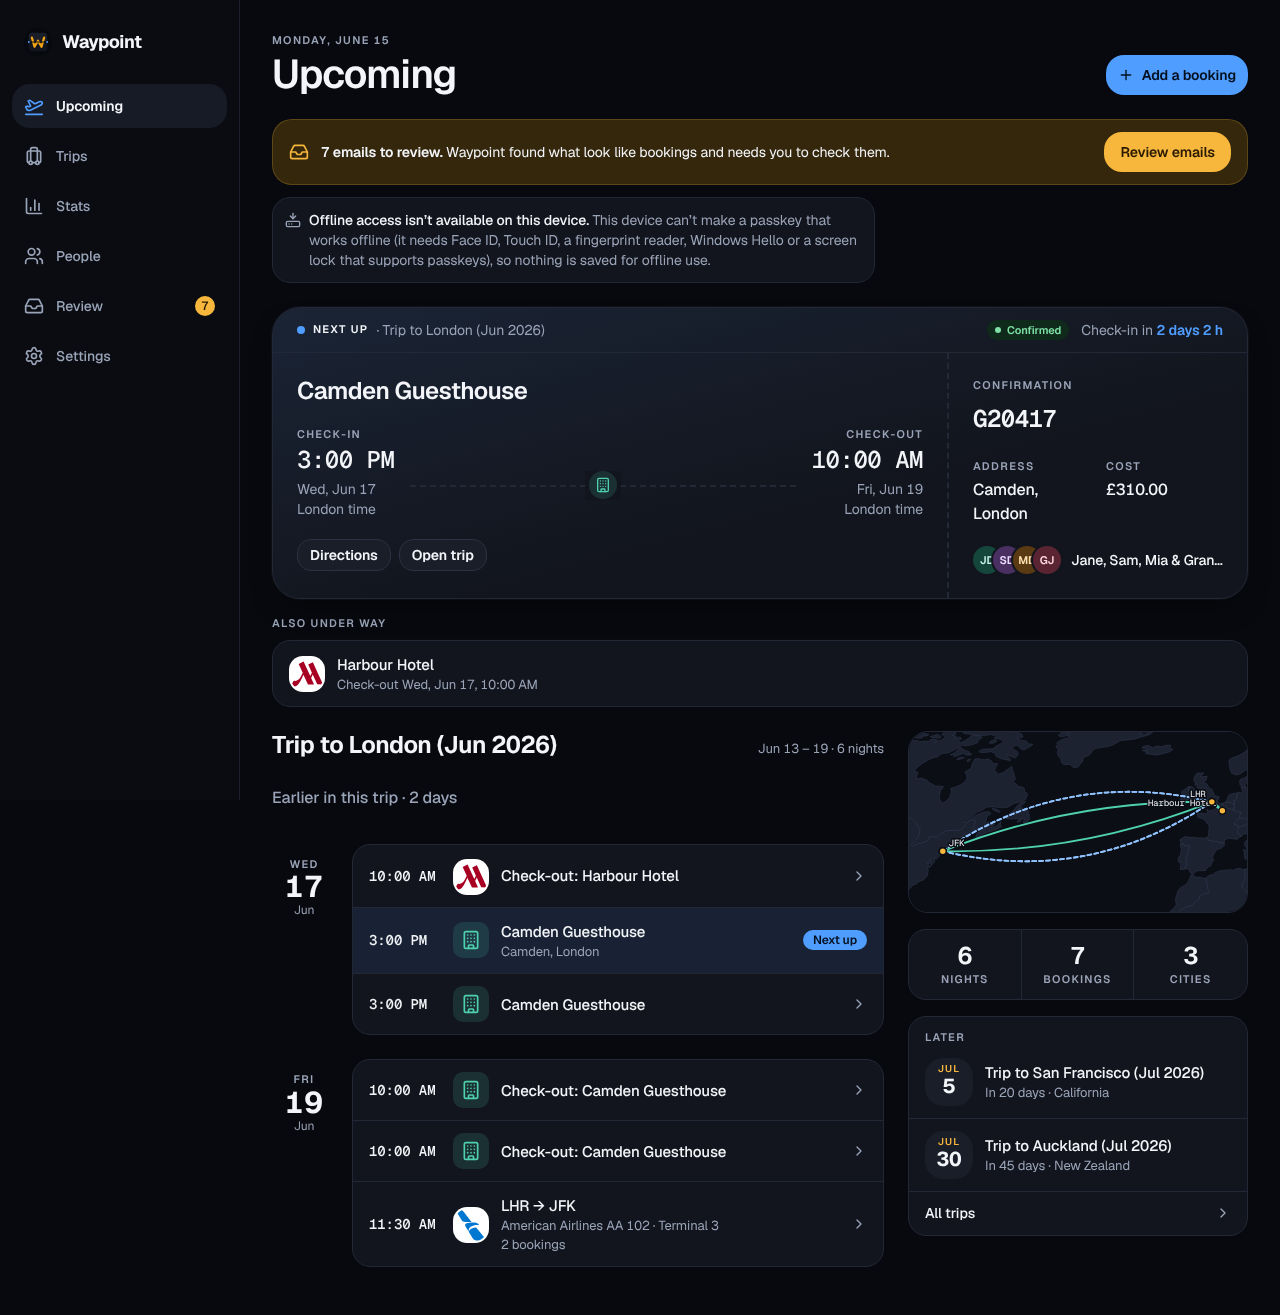
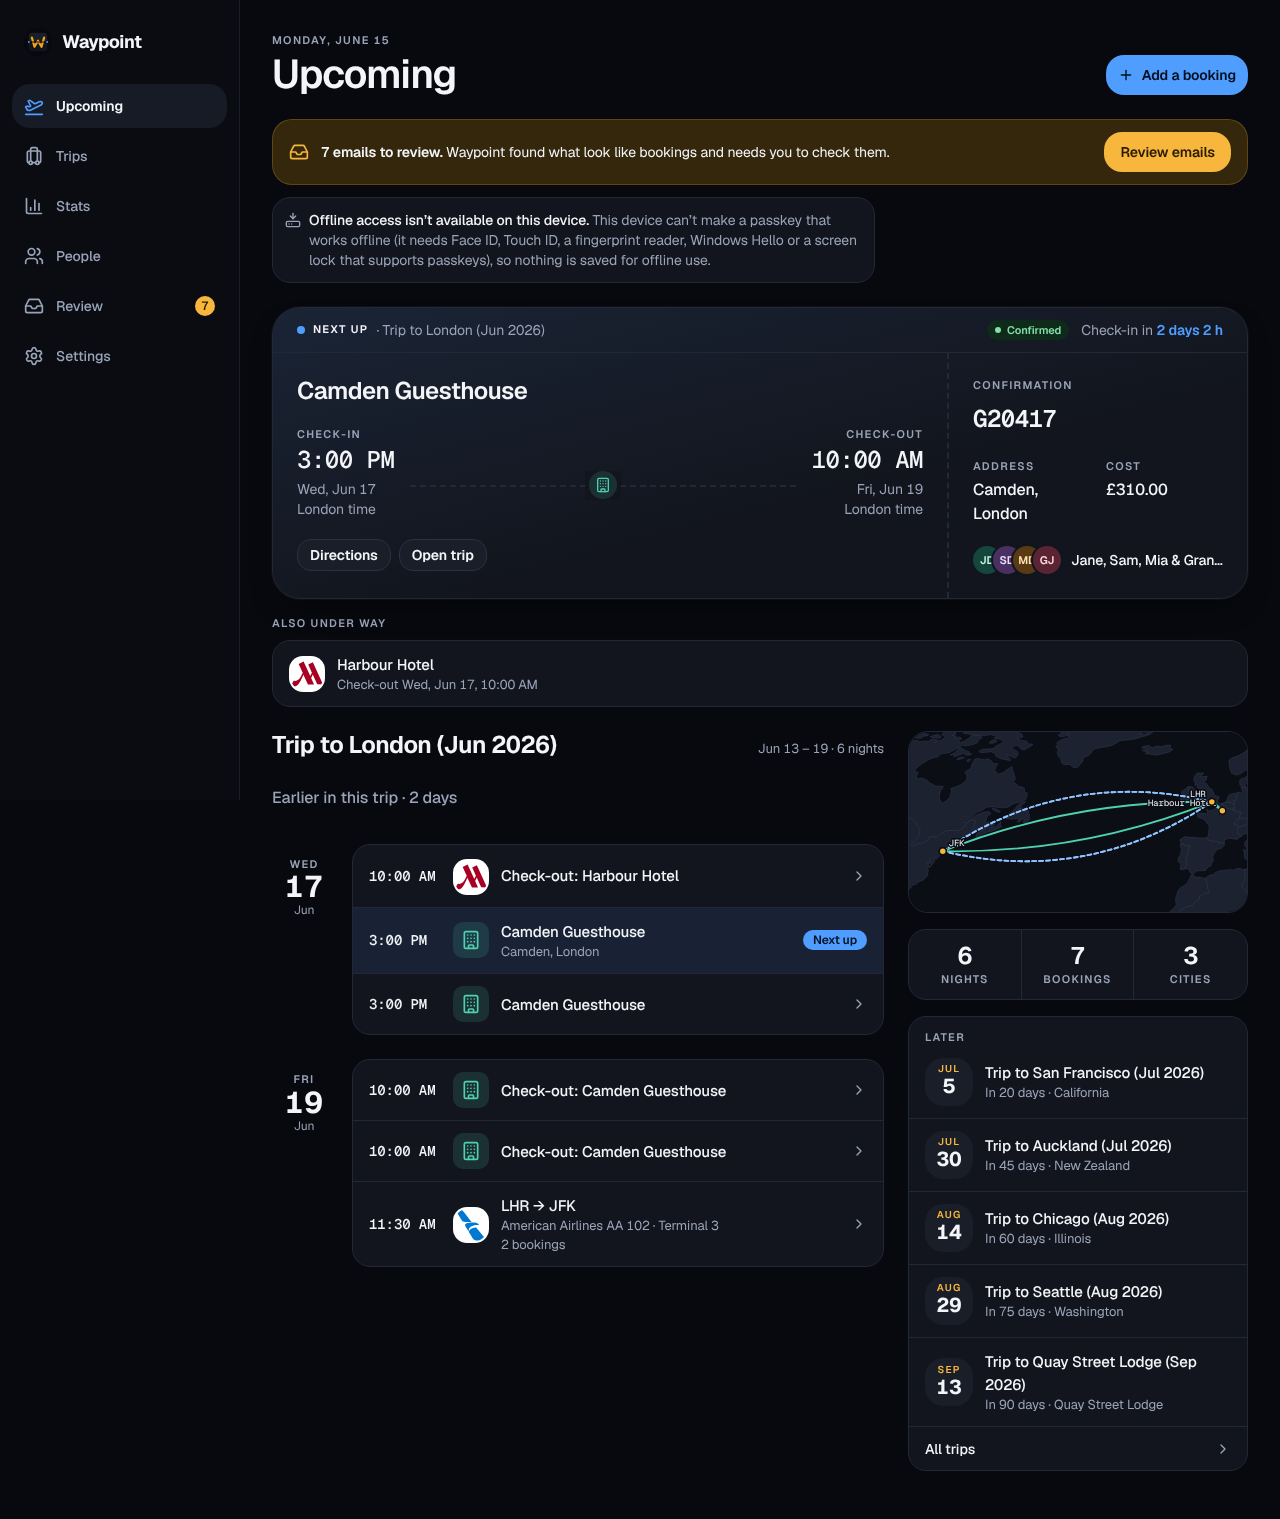
fix: show every upcoming trip on Upcoming, not just the next two (#430)

diff --git a/frontend/src/pages/Upcoming.svelte.test.ts b/frontend/src/pages/Upcoming.svelte.test.ts
@@ -790,20 +790,20 @@ describe("Upcoming side column", () => {
     expect(screen.getByTestId("trip-totals").children[2]).toHaveTextContent("Cities2");
   });
 
-  it("lists the next two trips after the featured one, with an All trips link", async () => {
+  it("lists every trip after the featured one, soonest first, with an All trips link", async () => {
     at("2026-11-20T09:00:00-05:00");
     serveWith([porto, london, third, lisbon], withPlaces);
     render(Upcoming);
     const card = await screen.findByRole("region", { name: "Later" });
     const rows = within(card).getAllByRole("listitem");
-    expect(rows).toHaveLength(2);
+    expect(rows).toHaveLength(3);
     expect(rows[0]).toHaveTextContent("Dec 30");
     expect(rows[0]).toHaveTextContent("Lisbon in winter");
     expect(rows[0]).toHaveTextContent("In 40 days · Lisbon");
     expect(within(rows[0]).getByRole("link", { name: "Lisbon in winter" })).toHaveAttribute("href", "#trip/2");
     expect(rows[1]).toHaveTextContent("Porto weekend");
     expect(rows[1]).toHaveTextContent("In 82 days · 2 nights");
-    expect(within(card).queryByText("Rome")).toBeNull();
+    expect(rows[2]).toHaveTextContent("Rome");
     expect(within(card).getByRole("link", { name: "All trips" })).toHaveAttribute("href", "#trips?when=upcoming");
   });
 

diff --git a/frontend/src/lib/side-column.ts b/frontend/src/lib/side-column.ts
@@ -2,7 +2,6 @@ import type { Segment, Trip, TripPlaces } from "./api-types";
 import type { Stop } from "./route-replay";
 import { daysBetween, dayParts, placeOf, splitTrips } from "./trips";
 
-export const LATER_LIMIT = 2;
 const AIRPORT_CODE = /^[A-Za-z]{3}$/;
 
 const head = (text: string): string => text.split(",")[0].trim();
@@ -42,7 +41,7 @@ export const tripTotals = (trip: Trip, places: TripPlaces | null = null): Totals
 export function laterTrips(trips: Trip[], featured: Trip, today: string): Trip[] {
   const upcoming = splitTrips(trips, today).upcoming.filter((t) => t.start_date && t.start_date >= today);
   const after = upcoming.findIndex((t) => t.id === featured.id);
-  return upcoming.filter((t, i) => t.id !== featured.id && (after < 0 || i > after)).slice(0, LATER_LIMIT);
+  return upcoming.filter((t, i) => t.id !== featured.id && (after < 0 || i > after));
 }
 
 export function startsIn(trip: Trip, today: string): string {

diff --git a/frontend/src/lib/side-column.test.ts b/frontend/src/lib/side-column.test.ts
@@ -28,6 +28,11 @@ describe("laterTrips", () => {
     const coming = dated(3, "2026-12-30", "2027-01-03");
     expect(laterTrips([began, featured, coming], featured, "2026-11-20").map((t) => t.id)).toEqual([3]);
   });
+  it("lists every trip that has not started, soonest first, with no cap", () => {
+    const featured = dated(1, "2026-11-20", "2026-11-27");
+    const rest = [2, 3, 4, 5, 6, 7].map((id) => dated(id, `2026-12-${String(id).padStart(2, "0")}`, `2026-12-${String(id + 1).padStart(2, "0")}`));
+    expect(laterTrips([featured, ...rest], featured, "2026-11-20").map((t) => t.id)).toEqual([2, 3, 4, 5, 6, 7]);
+  });
 });
 
 describe("usablePlaces", () => {

diff --git a/docs/src/content/docs/start/trips.md b/docs/src/content/docs/start/trips.md
@@ -14,7 +14,7 @@ Past trips do not show offline-saving notices or offer to set up a saved copy. O
 - **Upcoming** opens with today’s date above its title and an **Add a booking** button (a **+** on a phone). When emails are waiting in Review and you have trips, an amber banner under the header says how many and links to Review; on a phone it is one compact row. Only the count is shown, never a subject or sender. Below the next-up card, the trip is laid out day by day: a date column and one card per day on a larger screen, a date above each card on a phone, with each booking’s time where it happens, a tile for its kind and a **Next up** marker on the booking the card shows. The trip’s heading shows its dates and nights.
 - **Upcoming** leads with a boarding pass for what is next. Its header strip names what it is (**Next up**, **Under way**, **In the air**, **Delayed** or **Latest flight**) and the trip, with the booking’s status chips and the count-down (below) on the right. Its body shows the airline and flight number with the flight’s length and “nonstop”, the airports’ codes, very large, joined by a dashed route line with the plane, each code with its city and airport name beneath it (just the code for an airport Waypoint doesn’t know), and the time at each in the airport’s own time with its date and “City time” (a stay, rental car or parking booking shows its place with the two times, such as check-in and check-out), with a small **+1** (or +2, or −1 across the date line) beside an arrival that falls on another calendar day than the departure. The stub beside it (under it on a phone) holds the confirmation code, which you tap to copy, then the terminal, gate (“Not yet” until it is known), seats and cabin (or a stay’s room and a rental’s car) and who is travelling by first name; on a phone the details are a strip of the code, terminal, gate and seats. Under the route, with the live flight status, sit the actions: the app or **Check in** button, then **Directions**, **Call**, **Show QR code** for a parking booking, and **Open trip**. On a phone only the app button, **Show QR code** and **Open trip** are shown; the rest are on the trip page. A flight booked on two reservations shows each code. A flight in the air or a rental car out counts as under way and leads until it ends; a hotel stay in progress doesn’t push the day’s flight aside. Below it, the trip that card belongs to (or the next one, when you aren’t travelling) is laid out day by day. On a day you leave, the list puts the hotel check-out first, then the car’s return, then the departure, whatever hours the bookings show (a check-out time is often the hotel’s standard hour, not when you walk out). Each booking in that list, and the card’s **Open trip** button, links to that booking’s card on its trip page, which scrolls to it and outlines it; clicking one opens its full card in a sheet (it slides up from the bottom on a phone and is a side panel on a larger screen), with an **Open trip** button to go to the trip page, and Ctrl- or Cmd-click still follows the link. In that day-by-day list a flight leaves out its cabin, a hotel with a known brand shows the brand (Hyatt Place) and any other hotel its full name, each with its city and state from the address (City, State when both are known, the city alone or the state alone when only one is), and a hotel’s full name appears when you hover over a branded one. An address that can’t be read is shown as it was written. The trip page keeps the full names, cabins and addresses. Cancelled segments never lead.
 - A stay or rental with a map link or a phone number shows **Directions** and **Call** on the Upcoming card, in place of the app button, as the trip page does. While you are on a trip, the day-by-day list starts at today; the days before it are kept under **Earlier in this trip**, a disclosure you open with Enter or Space as well as a tap. Nothing is loaded from outside your server for it.
-- On a wide window **Upcoming** has a side column beside the day-by-day list (about 340 px; it drops below the list when the page is under about 900 px wide, as on a tablet). It starts with a small **route map** of the trip in the list: flights as dashed arcs, ground legs as solid lines, and each place as an amber dot with its code. It is a still picture, not the animated replay on the trip page, and it opens the trip when you click it. It loads after the page, using only that trip’s own places from your server, and shows only when at least two stops have a known place; when the places can’t be loaded, or you are offline, it is left out and the rest of the page is unchanged. Under it are the trip’s totals: **nights**, **bookings** (cancelled ones don’t count) and **cities** (the distinct places among its bookings). Below those, **Later** lists up to two more trips that haven’t started yet, each with its start date, name and how soon it starts, with the trip’s destination or its nights, and an **All trips** link to the Upcoming trips on Trips; it is left out when there are none. On a phone only **Later** shows, as two tiles under the day-by-day list, with no map or totals.
+- On a wide window **Upcoming** has a side column beside the day-by-day list (about 340 px; it drops below the list when the page is under about 900 px wide, as on a tablet). It starts with a small **route map** of the trip in the list: flights as dashed arcs, ground legs as solid lines, and each place as an amber dot with its code. It is a still picture, not the animated replay on the trip page, and it opens the trip when you click it. It loads after the page, using only that trip’s own places from your server, and shows only when at least two stops have a known place; when the places can’t be loaded, or you are offline, it is left out and the rest of the page is unchanged. Under it are the trip’s totals: **nights**, **bookings** (cancelled ones don’t count) and **cities** (the distinct places among its bookings). Below those, **Later** lists every other trip that hasn’t started yet, soonest first, each with its start date, name and how soon it starts, with the trip’s destination or its nights, and an **All trips** link to the Upcoming trips on Trips; it is left out when there are none. On a phone only **Later** shows, as tiles two to a row under the day-by-day list, with no map or totals.
   - The line at the top of a flight’s card uses the airline’s latest live flight status when the flight is tracked. A final status (landed, cancelled or diverted) is kept for good and always wins; any other status counts only while it is fresh and is never taken as proof for a past flight: “Delayed 50 min, expected to leave in …”, “Departed, expected to arrive in …”, “Landed”, “Cancelled by the airline” or “Diverted”. Where the only airline data is not final or is missing (live status is off, has nothing for the flight, is more than 3 hours old, or this device is offline, as for a past trip) it counts from the booked times: “Check-in opens in …”, then from 24 hours before departure (the same 24 hours as the [check-in reminder](/Waypoint/start/reminders/)) “Check-in is open, departs in …”, then once it has left “Under way, arrives in …”, then “Landed”. A stay, car, train, cruise or parking booking keeps its own words (“Check-in in …”, “Pick-up in …”, “Drop-off in …”, “Entry in …”, “Exit in …”). The plane runs along the route line from airport to airport, placed from the booked departure and arrival, at the end once live status says the flight landed, and at the start for a cancelled one. The airports’ city and name sit under the codes, and a flight that lands on another calendar day is marked “+1 day”. The booked times themselves are never changed.
 - **Trips** lists the trips you can see: the ones still to come or under way, and the past ones. A trip still to come is a ticket card: a stub with the start date (and “to 27”, “to Jan 2” or the year when it isn’t this year; “No dates” for a trip without dates), then the trip’s name, a pill saying when it starts (“In 2 days”, “Tomorrow”, “Today” or “Under way”), its destination and nights, small icons for what it holds (a plane for flights, a building for stays, a car, a train, a ship or a parking sign; cancelled bookings don’t count) and who is travelling. The soonest trip’s card is highlighted. On a phone the soonest trip is a full card with its dates in a strip across the top and the others are compact rows. Past trips are grouped by the year they started, newest first, each year in one card with its totals (trips, nights and flights); on a phone only the newest year shows at first, with a **Show** link for the next. When the window is wide enough for a readable trip beside the list (about 1,170 px with the side menu showing, less when the text is smaller; zooming in makes the window count as narrower), the list sits beside the selected trip in two panes: pick a card to see that trip without leaving the page. The list narrows a little to keep room for the trip. The selected trip is kept in the address (`#trips?trip=…`, together with the traveller choice when there is one), so reloading the page or opening a copied link shows the same trip, and a link to a trip you can’t see simply shows the first trip you can. Picking a card doesn’t add a Back step. Anywhere narrower, including a tablet, a phone or a zoomed-in window, the list stays a list, and a card opens the trip’s page. Above the list, one filter bar holds **Search**, which finds trips by words in the trip’s name, its destination or the airline, hotel or other provider of any of its bookings (every word you type has to match, capitals don’t matter); **Show**, a three-way switch (All, Upcoming, Past); **Year** as a chip for each year, to show the trips that start, end or fall within it (a trip that crosses New Year’s shows under both years; the chips appear once you have trips in more than one year, and pressing the chosen one again clears it); and **Travelling** as a row of initials, one for each person (shown once there is more than one; pressing the chosen one again returns to everyone). On a phone the search field is full width, with the Show switch and a **Filters** button under it that opens a sheet with the year chips and the people, and shows a dot while either is set; **Add a booking** and **Add a past trip** are under one **+** button. The filters combine, the line above the title says how many trips there are and how many are coming up (for example “412 trips · 3 coming up”, or “3 of 412 trips” while filtering), and **Clear filters** shows everything again. They are kept in the address (`#trips?q=…&when=…&year=…&who=…`) so reloading or opening a copied link shows the same list. Waypoint searches only the trips you can see, on your own server: nothing you type is sent anywhere. The whole list stays on one page, however long the archive.
 - With no trips to show, **Upcoming** says what to do next, using only your own mailbox and the Review items you can see: **Connect Gmail** when you have no mailbox connected (it starts the Google sign-in straight away; left out when the server has no Gmail set up), **Reconnect Gmail** when a mailbox can’t be read, **Scanning your mailbox** while a scan runs, and a link to **Review** with the count when emails are waiting. **Add a booking** is always there and opens the add form on Trips directly. A collapsed, optional **Setup checklist** links to People, adding a first booking and offline use in Settings; nothing is forced and it disappears with your first trip.
